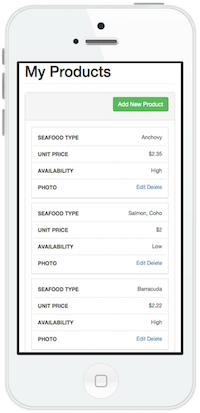
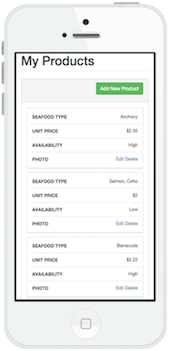
mobile pagination fix & optimiztion

diff --git a/build/sell-side/views/dashboard/body-includes/add-product.html b/build/sell-side/views/dashboard/body-includes/add-product.html
@@ -12,7 +12,7 @@
       <div class="col-lg-12">
         <div class="panel panel-default">
           <div class="panel-heading">
-            Product Addition Form
+            <h4>Product Addition Form</h4>
           </div>
           <!-- /.panel-heading -->
           <form class='modal2' ng-submit="addProduct()">
@@ -22,7 +22,7 @@
                 <div class="row">
                   <div class="col-lg-6 form-group">
                     <div class="large-padded-row">
-                      <h4>Seafood Types:</h4>
+                      <h5>Seafood Types:</h5>
 
                       <style>
                         .form-control {
@@ -72,7 +72,7 @@
 
                   <div class="col-lg-6 form-group">
                     <div class="large-padded-row">
-                      <h4>Unit Price:</h4>
+                      <h5>Unit Price:</h5>
                       <input ng-model="unitPrice" type="unitPrice" class="form-control" id="exampleInputEmail1" placeholder="i.e. 4.50">
                     </div>
                   </div>
@@ -88,7 +88,7 @@
 
                 <div class='col-lg-2 form-group droppad'>
                   <div class="large-padded-row">
-                    <h4>Featured?</h4>
+                    <h5>Featured?</h5>
                     <select ng-model="featured" name="mydropdown" class="dropdown">
                       <option value="true">Yes</option>
                       <option value="false">No</option>
@@ -98,10 +98,10 @@
 
                 <div class='col-lg-2 form-group droppad'>
                   <div class="large-padded-row">
-                    <h4>Availability</h4>
+                    <h5>Availability</h5>
                     <select ng-model="availability" name="mydropdown" class="dropdown">
-                      <option value="None">None</option>
                       <option value="Low">Low</option>
+                      <option value="Medium">Medium</option>
                       <option value="High">High</option>
                     </select>
 
@@ -110,7 +110,7 @@
 
                 <div class='col-lg-2 form-group droppad'>
                   <div class="large-padded-row">
-                    <h4>Units</h4>
+                    <h5>Units</h5>
                     <select ng-model="units" name="mydropdown" class="dropdown">
                       <option value="lb">Pound</option>
                       <option value="kg">Kilogram</option>

diff --git a/src/sell-side/views/dashboard/body-includes/add-product.html b/src/sell-side/views/dashboard/body-includes/add-product.html
@@ -12,7 +12,7 @@
       <div class="col-lg-12">
         <div class="panel panel-default">
           <div class="panel-heading">
-            Product Addition Form
+            <h4>Product Addition Form</h4>
           </div>
           <!-- /.panel-heading -->
           <form class='modal2' ng-submit="addProduct()">
@@ -22,7 +22,7 @@
                 <div class="row">
                   <div class="col-lg-6 form-group">
                     <div class="large-padded-row">
-                      <h4>Seafood Types:</h4>
+                      <h5>Seafood Types:</h5>
 
                       <style>
                         .form-control {
@@ -72,7 +72,7 @@
 
                   <div class="col-lg-6 form-group">
                     <div class="large-padded-row">
-                      <h4>Unit Price:</h4>
+                      <h5>Unit Price:</h5>
                       <input ng-model="unitPrice" type="unitPrice" class="form-control" id="exampleInputEmail1" placeholder="i.e. 4.50">
                     </div>
                   </div>
@@ -88,7 +88,7 @@
 
                 <div class='col-lg-2 form-group droppad'>
                   <div class="large-padded-row">
-                    <h4>Featured?</h4>
+                    <h5>Featured?</h5>
                     <select ng-model="featured" name="mydropdown" class="dropdown">
                       <option value="true">Yes</option>
                       <option value="false">No</option>
@@ -98,10 +98,10 @@
 
                 <div class='col-lg-2 form-group droppad'>
                   <div class="large-padded-row">
-                    <h4>Availability</h4>
+                    <h5>Availability</h5>
                     <select ng-model="availability" name="mydropdown" class="dropdown">
-                      <option value="None">None</option>
                       <option value="Low">Low</option>
+                      <option value="Medium">Medium</option>
                       <option value="High">High</option>
                     </select>
 
@@ -110,7 +110,7 @@
 
                 <div class='col-lg-2 form-group droppad'>
                   <div class="large-padded-row">
-                    <h4>Units</h4>
+                    <h5>Units</h5>
                     <select ng-model="units" name="mydropdown" class="dropdown">
                       <option value="lb">Pound</option>
                       <option value="kg">Kilogram</option>

diff --git a/build/buy-side/views/shop/nav-top.html b/build/buy-side/views/shop/nav-top.html
@@ -1,9 +1,10 @@
+
 <!-- Navigation -->
     <nav class="navbar navbar-default navbar-fixed-top">
         <div class="container">
             <!-- Brand and toggle get grouped for better mobile display -->
             <div class="navbar-header page-scroll">
-                <button type="button" class="navbar-toggle" data-toggle="collapse" data-target="#bs-example-navbar-collapse-1">
+                <button type="button" class="navbar-toggle" data-toggle="collapse" data-target="#bs-example-navbar-collapse-1" aria-expanded="false">
                     <span class="sr-only">Toggle navigation</span>
                     <span class="icon-bar"></span>
                     <span class="icon-bar"></span>
@@ -11,6 +12,7 @@
                 </button>
                 <a class="navbar-brand" href="#page-top"><i class = "fa fa-anchor"></i> Coastline Market</a>
             </div>
+
 
             <!-- Collect the nav links, forms, and other content for toggling -->
             <div class="collapse navbar-collapse" id="bs-example-navbar-collapse-1">

diff --git a/src/buy-side/views/shop/nav-top.html b/src/buy-side/views/shop/nav-top.html
@@ -1,9 +1,10 @@
+
 <!-- Navigation -->
     <nav class="navbar navbar-default navbar-fixed-top">
         <div class="container">
             <!-- Brand and toggle get grouped for better mobile display -->
             <div class="navbar-header page-scroll">
-                <button type="button" class="navbar-toggle" data-toggle="collapse" data-target="#bs-example-navbar-collapse-1">
+                <button type="button" class="navbar-toggle" data-toggle="collapse" data-target="#bs-example-navbar-collapse-1" aria-expanded="false">
                     <span class="sr-only">Toggle navigation</span>
                     <span class="icon-bar"></span>
                     <span class="icon-bar"></span>
@@ -11,6 +12,7 @@
                 </button>
                 <a class="navbar-brand" href="#page-top"><i class = "fa fa-anchor"></i> Coastline Market</a>
             </div>
+
 
             <!-- Collect the nav links, forms, and other content for toggling -->
             <div class="collapse navbar-collapse" id="bs-example-navbar-collapse-1">

diff --git a/build/sell-side/views/dashboard/nav-side.html b/build/sell-side/views/dashboard/nav-side.html
@@ -13,11 +13,11 @@
         <!-- /input-group -->
       </li>
 
-      <li ng-class="getStyle(0)"><a ng-click="setSelection(0)" href="javascript:void(0)"><i class="fa fa-home"></i> Home</a>
+      <li ng-class="getStyle(0)"><a ng-click="setSelection(0)" href="javascript:void(0)"><b><i class="fa fa-home"></i> Home</b></a>
       </li>
-      <li ng-class="getStyle(1)"><a ng-click="setSelection(1)" href="javascript:void(0)"><i class="fa fa-list-alt"></i> Orders</a>
+      <li ng-class="getStyle(1)"><a ng-click="setSelection(1)" href="javascript:void(0)"><b><i class="fa fa-list-alt"></i> Orders</b></a>
       </li>
-      <li ng-class="getStyle(2)"><a ng-click="setSelection(2)" href="javascript:void(0)"><i class="fa fa-table"></i> Products</a>
+      <li ng-class="getStyle(2)"><a ng-click="setSelection(2)" href="javascript:void(0)"><b><i class="fa fa-table"></i> Products</b></a>
       </li>
     </ul>
   </div>

diff --git a/src/sell-side/views/dashboard/nav-side.html b/src/sell-side/views/dashboard/nav-side.html
@@ -13,11 +13,11 @@
         <!-- /input-group -->
       </li>
 
-      <li ng-class="getStyle(0)"><a ng-click="setSelection(0)" href="javascript:void(0)"><i class="fa fa-home"></i> Home</a>
+      <li ng-class="getStyle(0)"><a ng-click="setSelection(0)" href="javascript:void(0)"><b><i class="fa fa-home"></i> Home</b></a>
       </li>
-      <li ng-class="getStyle(1)"><a ng-click="setSelection(1)" href="javascript:void(0)"><i class="fa fa-list-alt"></i> Orders</a>
+      <li ng-class="getStyle(1)"><a ng-click="setSelection(1)" href="javascript:void(0)"><b><i class="fa fa-list-alt"></i> Orders</b></a>
       </li>
-      <li ng-class="getStyle(2)"><a ng-click="setSelection(2)" href="javascript:void(0)"><i class="fa fa-table"></i> Products</a>
+      <li ng-class="getStyle(2)"><a ng-click="setSelection(2)" href="javascript:void(0)"><b><i class="fa fa-table"></i> Products</b></a>
       </li>
     </ul>
   </div>

diff --git a/build/sell-side/views/dashboard/body-includes/home.html b/build/sell-side/views/dashboard/body-includes/home.html
@@ -1,7 +1,7 @@
 <div id="page-wrapper">
   <div class="row">
     <div class="col-lg-12">
-      <h1 class="page-header">Joseph's Store</h1>
+      <h1 class="page-header">Joe's Store</h1>
     </div>
     <!-- /.col-lg-12 -->
   </div>
@@ -22,7 +22,8 @@
             </div>
           </div>
         </div>
-        <a href="inventory.html">
+
+        <a href ="#">
           <div class="panel-footer">
             <span class="pull-left">View Details</span>
             <span class="pull-right"><i class="fa fa-arrow-circle-right"></i></span>
@@ -106,7 +107,7 @@
     <div class="col-lg-12">
       <div class="panel panel-default">
         <div class="panel-heading">
-          <i class="fa fa-credit-card fa-fw"></i> Recent Transactions
+          <h4> Recent Transactions</h4>
         </div>
         <div class="panel-body">
           <div class="dataTable_wrapper">

diff --git a/src/sell-side/views/dashboard/body-includes/home.html b/src/sell-side/views/dashboard/body-includes/home.html
@@ -1,7 +1,7 @@
 <div id="page-wrapper">
   <div class="row">
     <div class="col-lg-12">
-      <h1 class="page-header">Joseph's Store</h1>
+      <h1 class="page-header">Joe's Store</h1>
     </div>
     <!-- /.col-lg-12 -->
   </div>
@@ -22,7 +22,8 @@
             </div>
           </div>
         </div>
-        <a href="inventory.html">
+
+        <a href ="#">
           <div class="panel-footer">
             <span class="pull-left">View Details</span>
             <span class="pull-right"><i class="fa fa-arrow-circle-right"></i></span>
@@ -106,7 +107,7 @@
     <div class="col-lg-12">
       <div class="panel panel-default">
         <div class="panel-heading">
-          <i class="fa fa-credit-card fa-fw"></i> Recent Transactions
+          <h4> Recent Transactions</h4>
         </div>
         <div class="panel-body">
           <div class="dataTable_wrapper">

diff --git a/build/buy-side/css/3-col-portfolio.css b/build/buy-side/css/3-col-portfolio.css
@@ -369,6 +369,16 @@ MATERIAL CARDS
 PAGINATION
 //////////////////////////////////////////////////////////////*/
 
+@media screen and (max-width: 600px) {
+  .pagination{
+    max-width: 100%;
+    margin: 5px;
+    letter-spacing: 0px;
+    font-size: 11px;
+  }
+}
+
+
 .pagination {
   display: inline-block;
   padding-left: 0;
@@ -377,6 +387,8 @@ PAGINATION
   font-weight: 100;
   text-transform: uppercase;
 }
+
+
 .pagination > li {
   display: inline;
 }
@@ -402,6 +414,9 @@ PAGINATION
   -webkit-box-shadow: rgba(0, 0, 0, 0.1) 0 8px 8px 0;
   -moz-box-shadow: rgba(0, 0, 0, 0.1) 0 8px 8px 0;
 }
+
+
+
 .pagination > li:first-child > a, .pagination > li:first-child > span {
   border-top-left-radius: 4px;
   border-bottom-left-radius: 4px;

diff --git a/src/buy-side/css/3-col-portfolio.css b/src/buy-side/css/3-col-portfolio.css
@@ -369,6 +369,16 @@ MATERIAL CARDS
 PAGINATION
 //////////////////////////////////////////////////////////////*/
 
+@media screen and (max-width: 600px) {
+  .pagination{
+    max-width: 100%;
+    margin: 5px;
+    letter-spacing: 0px;
+    font-size: 11px;
+  }
+}
+
+
 .pagination {
   display: inline-block;
   padding-left: 0;
@@ -377,6 +387,8 @@ PAGINATION
   font-weight: 100;
   text-transform: uppercase;
 }
+
+
 .pagination > li {
   display: inline;
 }
@@ -402,6 +414,9 @@ PAGINATION
   -webkit-box-shadow: rgba(0, 0, 0, 0.1) 0 8px 8px 0;
   -moz-box-shadow: rgba(0, 0, 0, 0.1) 0 8px 8px 0;
 }
+
+
+
 .pagination > li:first-child > a, .pagination > li:first-child > span {
   border-top-left-radius: 4px;
   border-bottom-left-radius: 4px;

diff --git a/build/sell-side/views/dashboard/body-includes/products.html b/build/sell-side/views/dashboard/body-includes/products.html
@@ -34,7 +34,7 @@
                   <td data-label="Seafood Type">{{product.name}}</td>
                   <td data-label="Unit Price">${{product.unitPrice}}</td>
                   <td data-label="Availability">{{product.availability}}</td>
-                  <td data-label="Photo"><a href="#">Edit</a> <a ng-click="deleteProduct(product._id)" href="javascript:void(0)">Delete</a></td>
+                  <td data-label="Photo"><a href="javascript:void(0)">Edit</a> | <a ng-click="deleteProduct(product._id)" href="javascript:void(0)">Delete</a></td>
                 </tr>
 
               </tbody>

diff --git a/src/sell-side/views/dashboard/body-includes/products.html b/src/sell-side/views/dashboard/body-includes/products.html
@@ -34,7 +34,7 @@
                   <td data-label="Seafood Type">{{product.name}}</td>
                   <td data-label="Unit Price">${{product.unitPrice}}</td>
                   <td data-label="Availability">{{product.availability}}</td>
-                  <td data-label="Photo"><a href="#">Edit</a> <a ng-click="deleteProduct(product._id)" href="javascript:void(0)">Delete</a></td>
+                  <td data-label="Photo"><a href="javascript:void(0)">Edit</a> | <a ng-click="deleteProduct(product._id)" href="javascript:void(0)">Delete</a></td>
                 </tr>
 
               </tbody>
